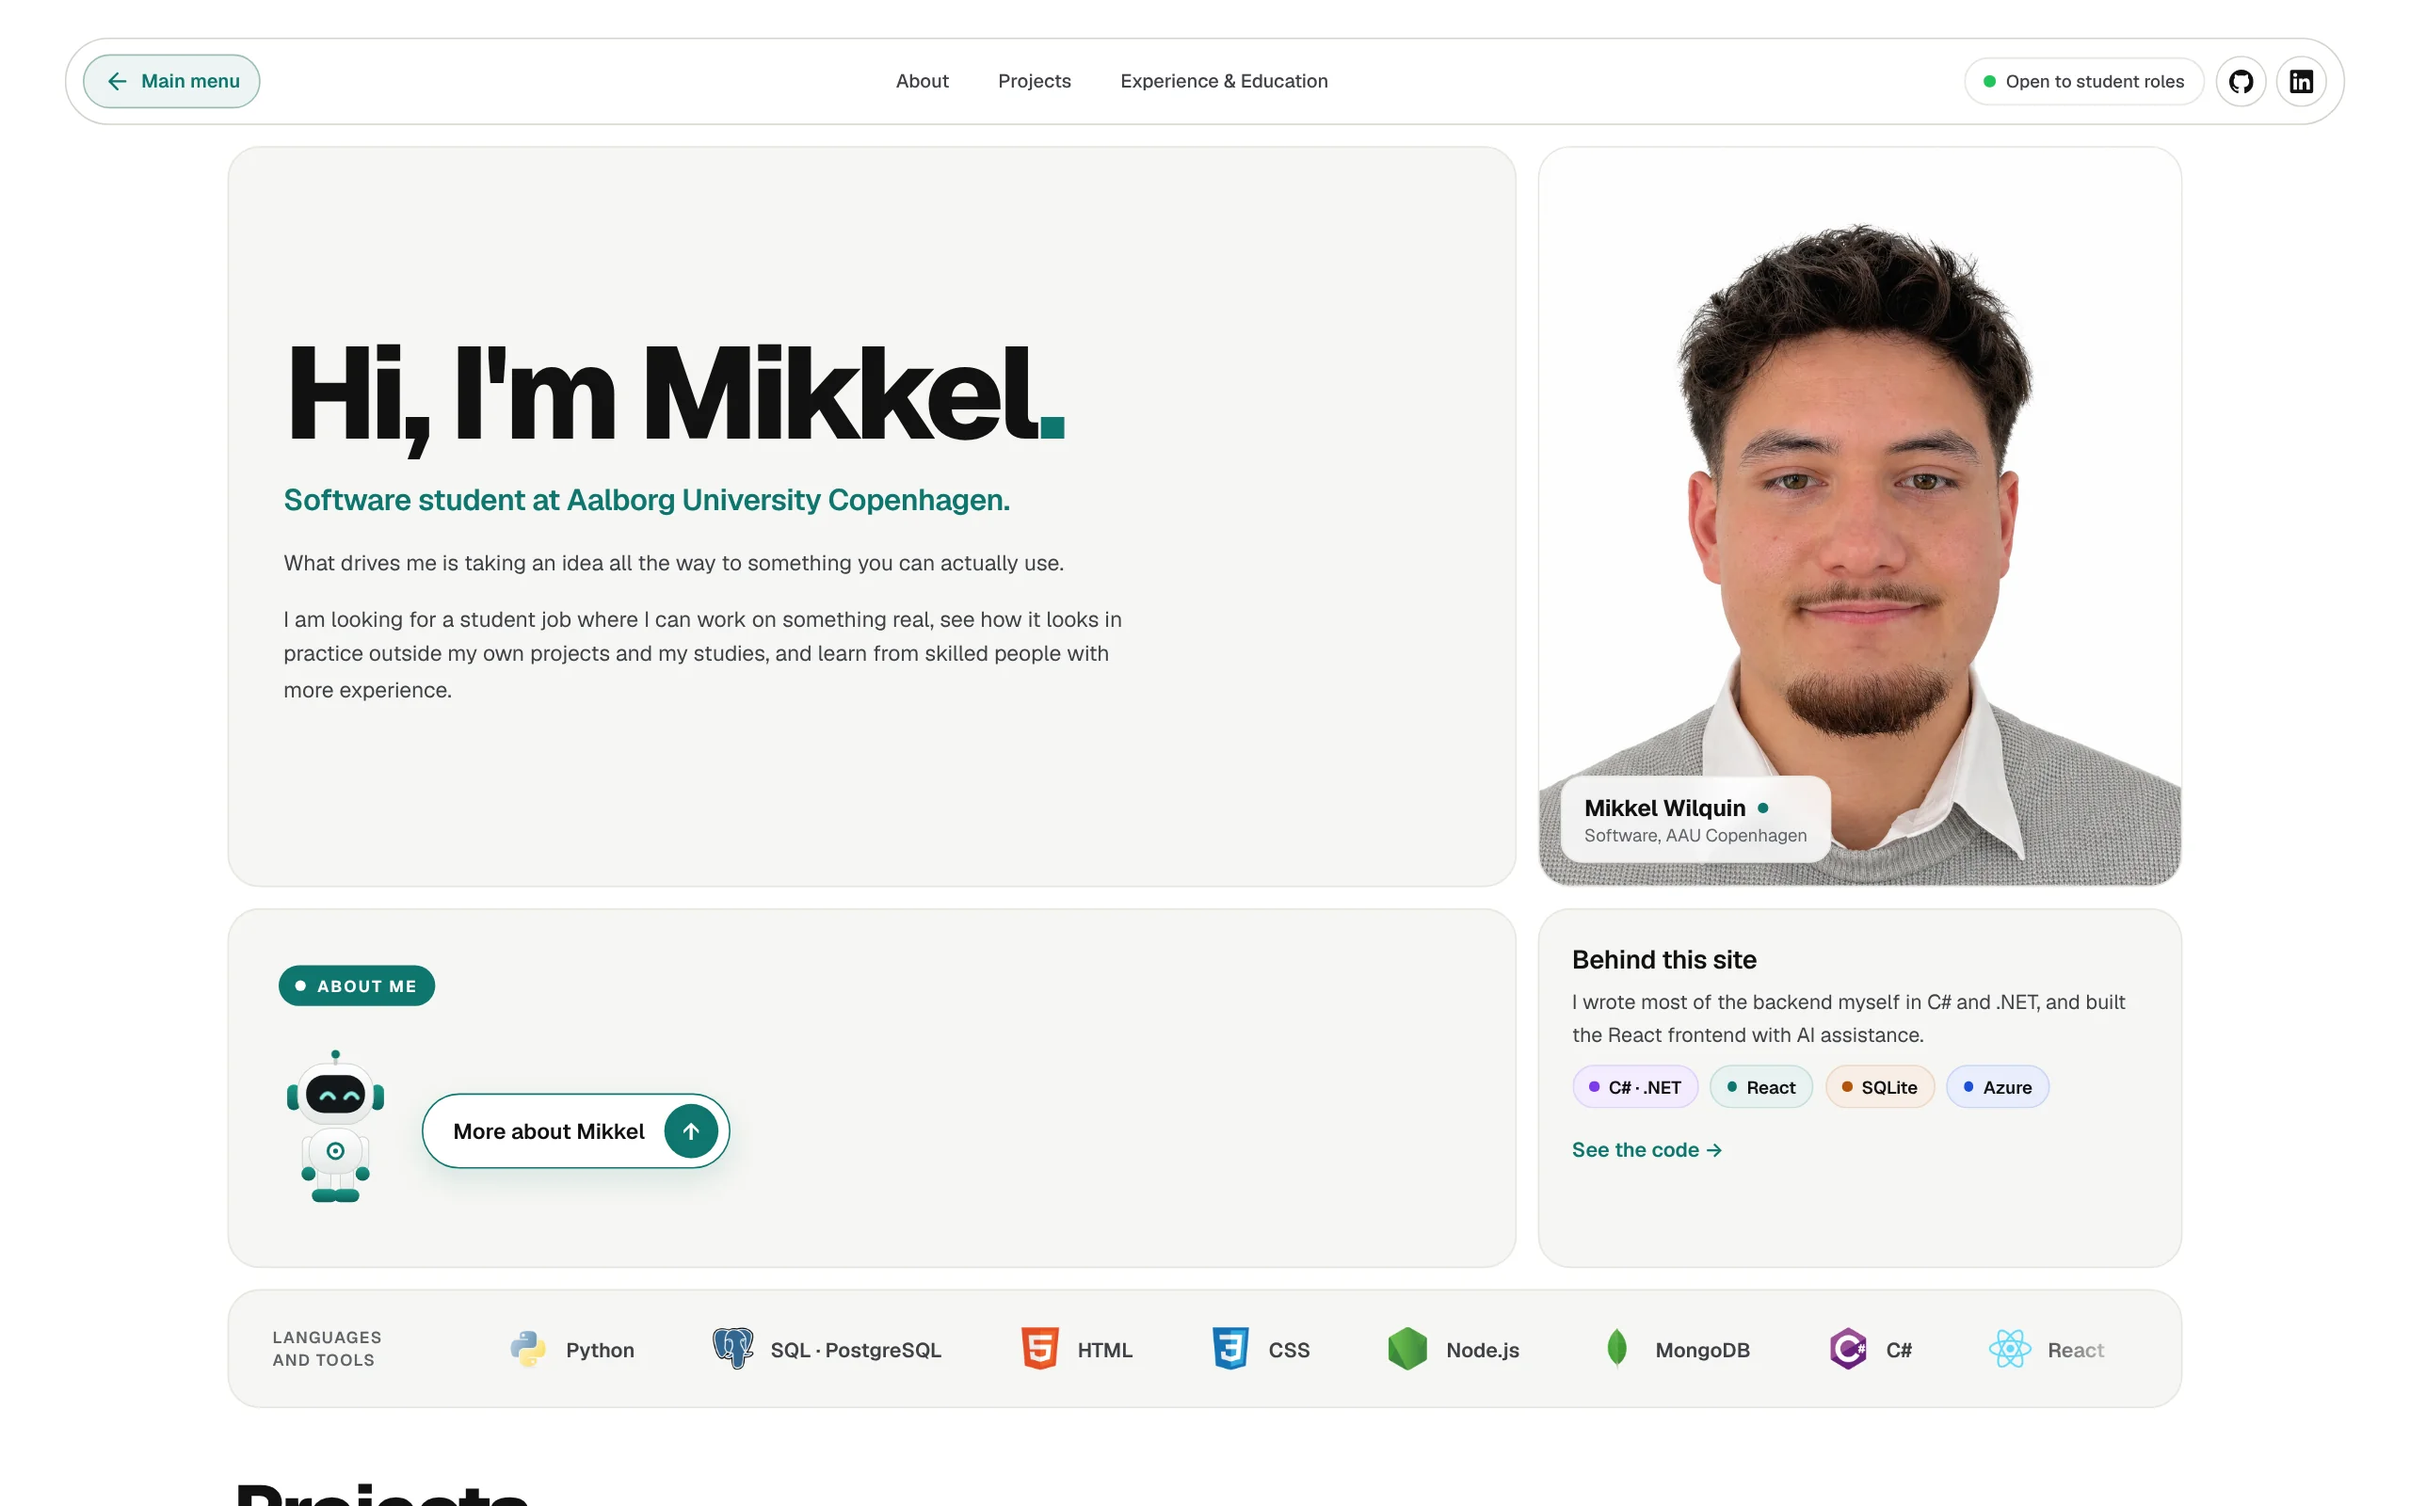
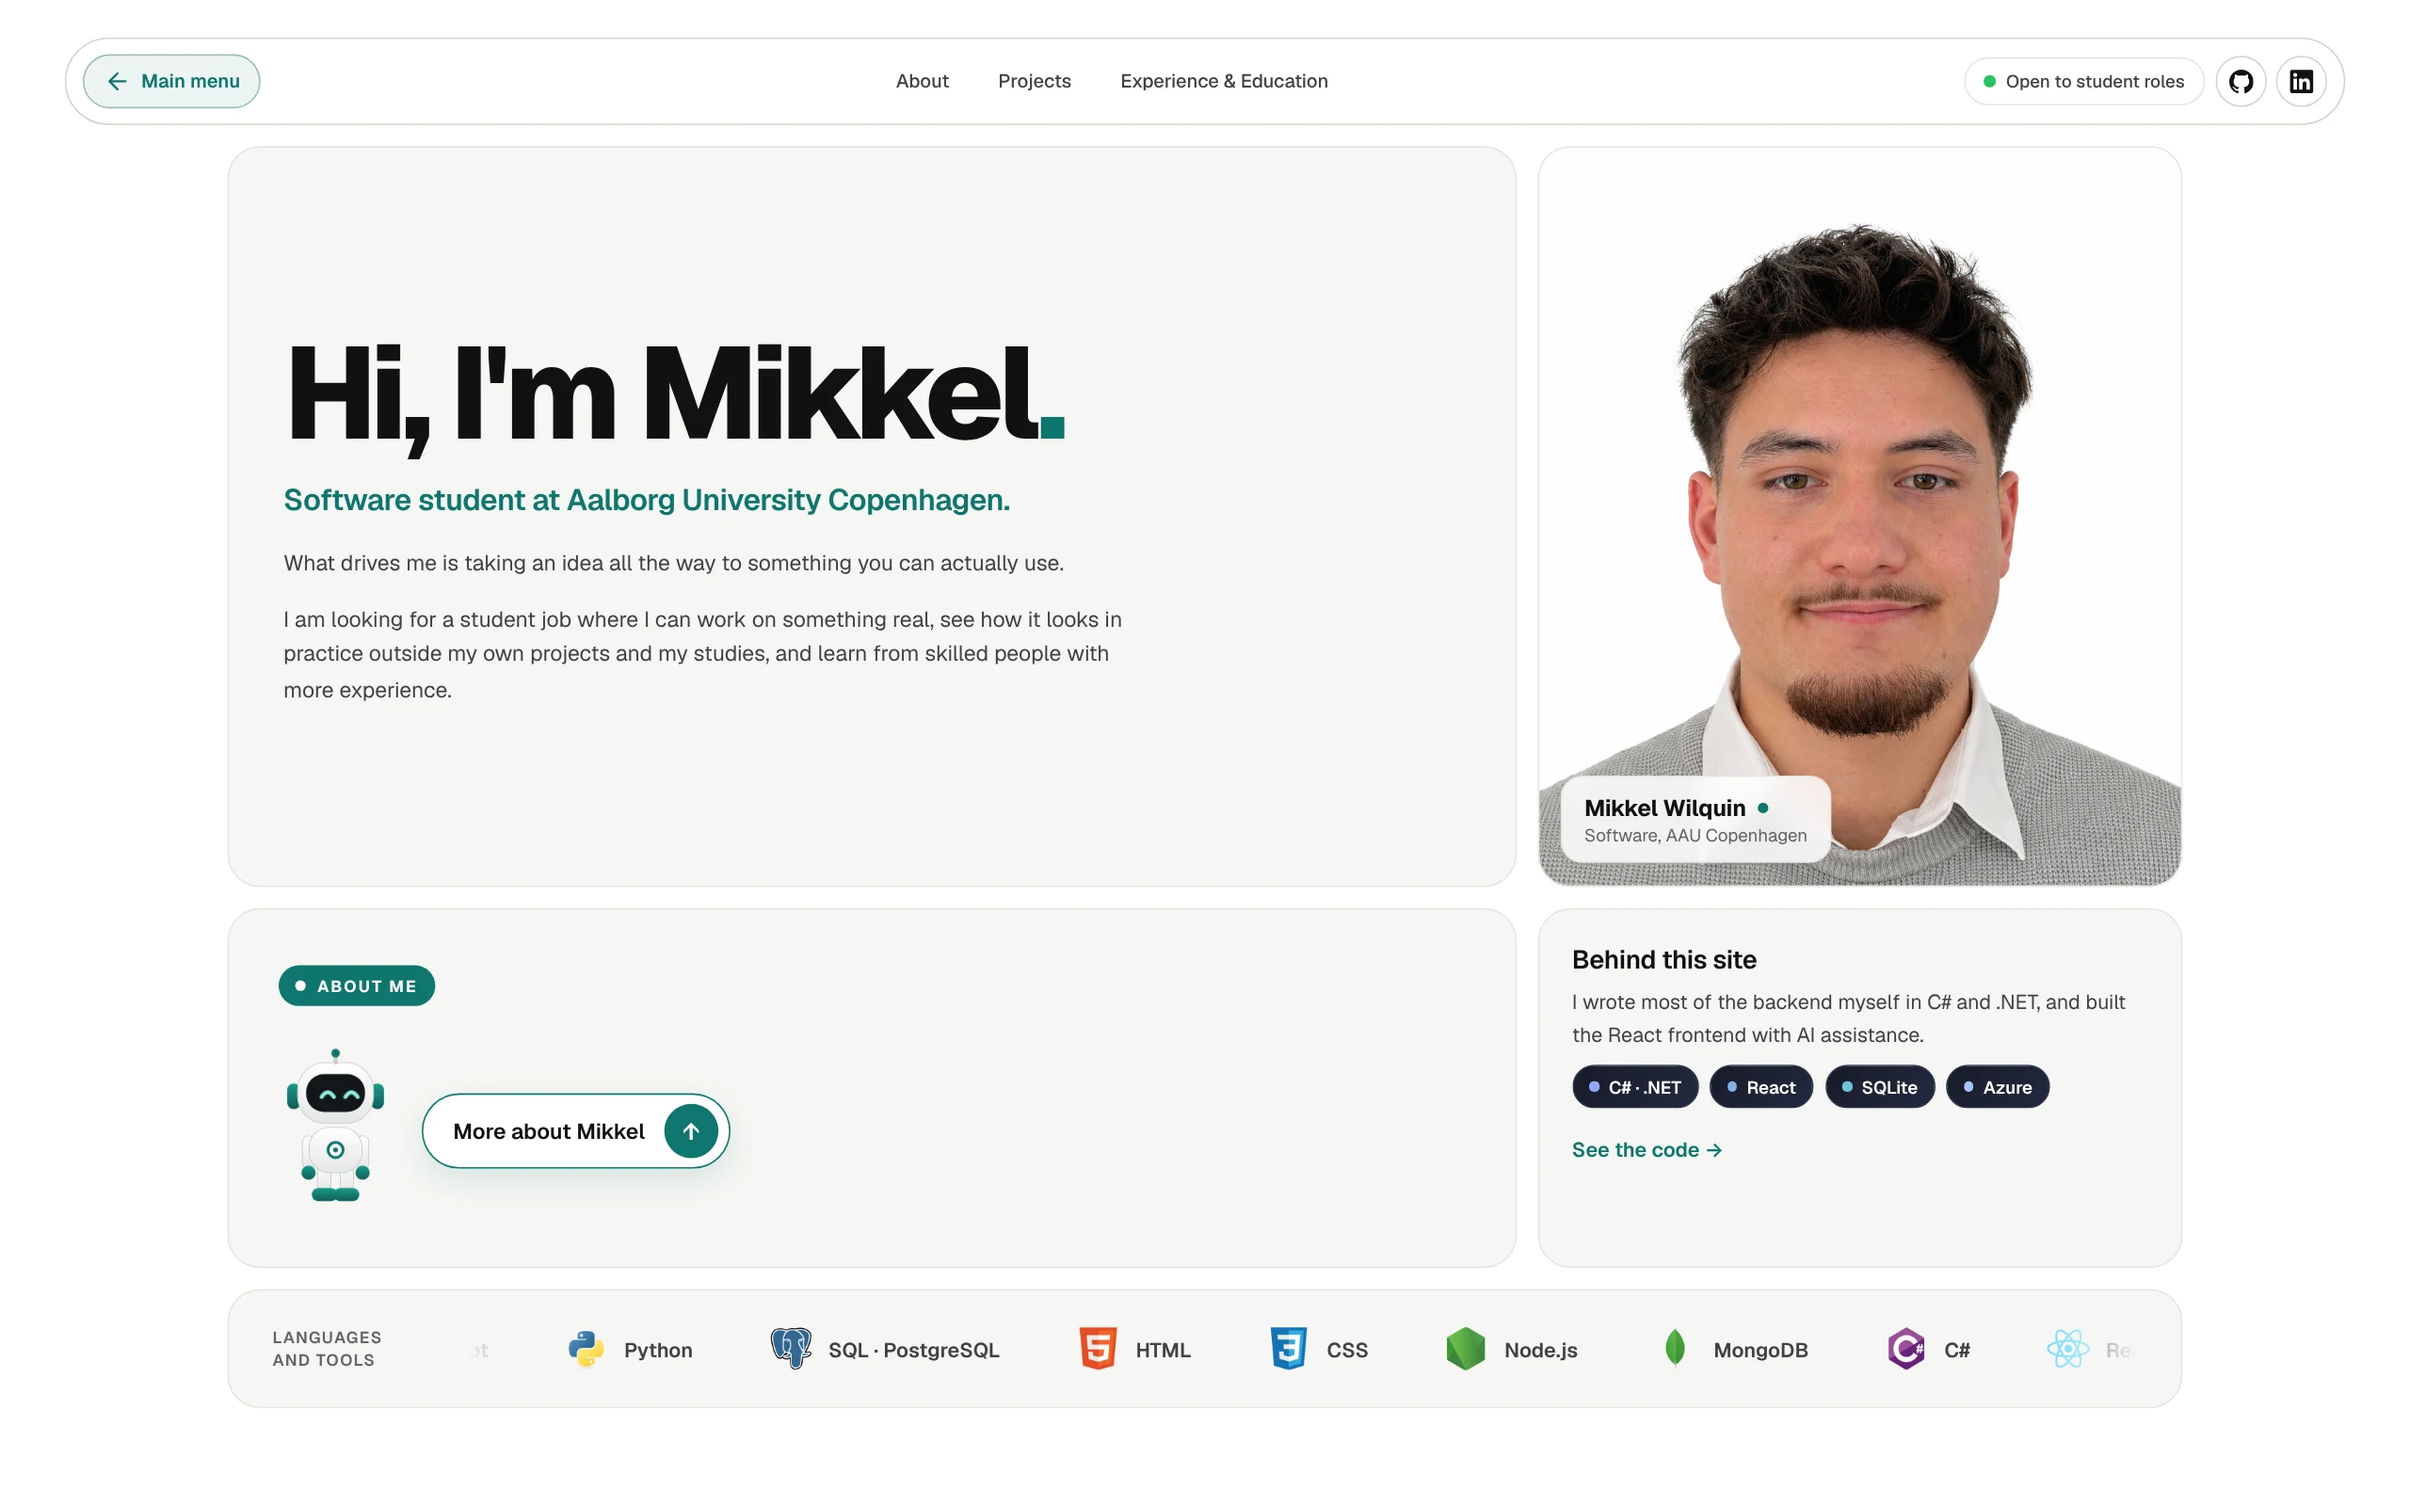
Dark blue project panel and boxes, blue project colours, green about me

diff --git a/portfolio-web/src/components/Projects.css b/portfolio-web/src/components/Projects.css
@@ -12,6 +12,7 @@
   line-height: 1;
   font-weight: 800;
   letter-spacing: -0.045em;
+  color: #FFFFFF;
 }
 
 .projects-layout {
@@ -72,10 +73,10 @@
 .project-close {
   flex-shrink: 0;
   padding: 6px 10px;
-  border: 1px solid color-mix(in srgb, var(--c) 28%, var(--border));
+  border: 1px solid #3A4460;
   border-radius: 8px;
-  background: var(--bg);
-  color: var(--c);
+  background: #2A3247;
+  color: #C9D1E6;
   font: inherit;
   font-size: 13px;
   cursor: pointer;
@@ -101,9 +102,11 @@
   flex-direction: column;
   gap: 18px;
   padding: 36px;
-  background: color-mix(in srgb, var(--c) 7%, var(--card));
-  border: 1px solid color-mix(in srgb, var(--c) 28%, var(--border));
+  background: linear-gradient(135deg, #171B29, #232A3F);
+  border: 1px solid #2E364A;
   border-radius: var(--radius);
+  box-shadow: 0 24px 50px -24px rgba(15, 20, 40, 0.55);
+  color: #E6E9F2;
 }
 
 .project-detail-head {
@@ -126,10 +129,10 @@
   width: fit-content;
   margin-left: auto;
   padding: 6px 10px;
-  border: 1px solid color-mix(in srgb, var(--c) 28%, var(--border));
+  border: 1px solid #3A4460;
   border-radius: 999px;
-  background: color-mix(in srgb, var(--c) 5%, var(--bg));
-  color: var(--c);
+  background: #2A3247;
+  color: #C9D1E6;
   font-size: 12px;
   font-weight: 600;
   list-style: none;
@@ -181,14 +184,14 @@
   font-weight: 700;
   letter-spacing: 0.1em;
   text-transform: uppercase;
-  color: var(--c);
+  color: #8FB4FF;
 }
 
 .project-detail-top p {
   margin: 0;
   font-size: 16px;
   line-height: 1.6;
-  color: var(--text2);
+  color: #B9C0D2;
 }
 
 .project-detail-top ul {
@@ -205,7 +208,7 @@
   padding-left: 18px;
   font-size: 15px;
   line-height: 1.5;
-  color: var(--text2);
+  color: #B9C0D2;
 }
 
 .project-detail-top li::before {
@@ -215,7 +218,7 @@
   top: 10px;
   width: 8px;
   height: 2px;
-  background: var(--c);
+  background: #8FB4FF;
 }
 
 .project-detail-foot {

diff --git a/portfolio-web/src/components/About.jsx b/portfolio-web/src/components/About.jsx
@@ -9,12 +9,12 @@ const ROWS = [
         text: 'I am Mikkel, 22 years old, and I live in Rødovre. I am in my third semester of software at Aalborg University in Copenhagen.',
     },
     {
-        color: '#7C3AED',
+        color: '#0F766E',
         icon: <><path d="M12 3l1.9 5.1L19 10l-5.1 1.9L12 17l-1.9-5.1L5 10l5.1-1.9z" /><path d="M19 15l.8 2.2L22 18l-2.2.8L19 21l-.8-2.2L16 18l2.2-.8z" /></>,
         text: 'I spend most of my free time on my own projects. I am especially interested in how AI can take over tasks that people do by hand today.',
     },
     {
-        color: '#B45309',
+        color: '#0F766E',
         icon: <><path d="M4 14v-2a8 8 0 0116 0v2" /><rect x="2.5" y="13" width="4" height="6" rx="1.5" /><rect x="17.5" y="13" width="4" height="6" rx="1.5" /><path d="M20 19c0 1.7-2 2.5-5 2.5" /></>,
         text: 'Alongside my studies I work at the Coop service desk. Store staff call when something has stopped working and they are in a hurry, so I have learned to stay calm and explain the solution in plain language.',
     },

diff --git a/portfolio-web/src/components/demos/kinds.js b/portfolio-web/src/components/demos/kinds.js
@@ -3,11 +3,11 @@ import InvoiceDemo from './InvoiceDemo.jsx'
 import MlDemo from './MlDemo.jsx'
 
 const kinds = [
-  { match: /event/i, color: '#0F766E', Demo: EventDemo },
-  { match: /invoice/i, color: '#7C3AED', Demo: InvoiceDemo, codeUrl: 'https://github.com/lwmikkel/Ai-Invoice-reader.git' },
-  { match: /machine|league/i, color: '#B45309', Demo: MlDemo, codeUrl: 'https://github.com/lwmikkel/Machinelearning.git' },
+  { match: /event/i, color: '#2F7FA0', Demo: EventDemo },
+  { match: /invoice/i, color: '#4F5FA8', Demo: InvoiceDemo, codeUrl: 'https://github.com/lwmikkel/Ai-Invoice-reader.git' },
+  { match: /machine|league/i, color: '#3B6A9C', Demo: MlDemo, codeUrl: 'https://github.com/lwmikkel/Machinelearning.git' },
 ]
 
 export function kindFor(project) {
-  return kinds.find(kind => kind.match.test(project.name)) ?? { color: '#0F766E', Demo: null }
+  return kinds.find(kind => kind.match.test(project.name)) ?? { color: '#2F7FA0', Demo: null }
 }

diff --git a/portfolio-web/src/components/BuiltWith.css b/portfolio-web/src/components/BuiltWith.css
@@ -48,9 +48,10 @@
   height: 32px;
   margin-top: 10px;
   padding: 0 12px;
-  border: 1px solid color-mix(in srgb, var(--c) 24%, #FFFFFF);
+  border: 1px solid #2E364A;
   border-radius: 999px;
-  background: color-mix(in srgb, var(--c) 10%, #FFFFFF);
+  background: linear-gradient(135deg, #171B29, #232A3F);
+  color: #FFFFFF;
   font-size: 13px;
   font-weight: 600;
 }
@@ -102,9 +103,10 @@
   gap: 12px;
   height: 52px;
   padding: 0 16px;
-  border: 1px solid color-mix(in srgb, var(--c) 24%, #FFFFFF);
+  border: 1px solid #2E364A;
   border-radius: 16px;
-  background: color-mix(in srgb, var(--c) 10%, #FFFFFF);
+  background: linear-gradient(135deg, #171B29, #232A3F);
+  color: #FFFFFF;
 }
 
 .built-stack li::before {
@@ -123,7 +125,7 @@
 .built-stack span {
   margin-left: auto;
   font-size: 13px;
-  color: var(--text3);
+  color: #A5AEC4;
 }
 
 .built-link {

diff --git a/portfolio-web/src/components/BuiltWith.jsx b/portfolio-web/src/components/BuiltWith.jsx
@@ -1,10 +1,10 @@
 import './BuiltWith.css'
 
 const STACK = [
-    { name: 'C# · .NET', role: 'API', color: '#7C3AED' },
-    { name: 'React', role: 'Front end', color: '#0F766E' },
-    { name: 'SQLite', role: 'Database', color: '#B45309' },
-    { name: 'Azure', role: 'Hosting', color: '#1D4ED8' },
+    { name: 'C# · .NET', role: 'API', color: '#8FA8FF' },
+    { name: 'React', role: 'Front end', color: '#7FB2E5' },
+    { name: 'SQLite', role: 'Database', color: '#6CC4D8' },
+    { name: 'Azure', role: 'Hosting', color: '#A9C4FF' },
 ]
 
 function BuiltWith(){
